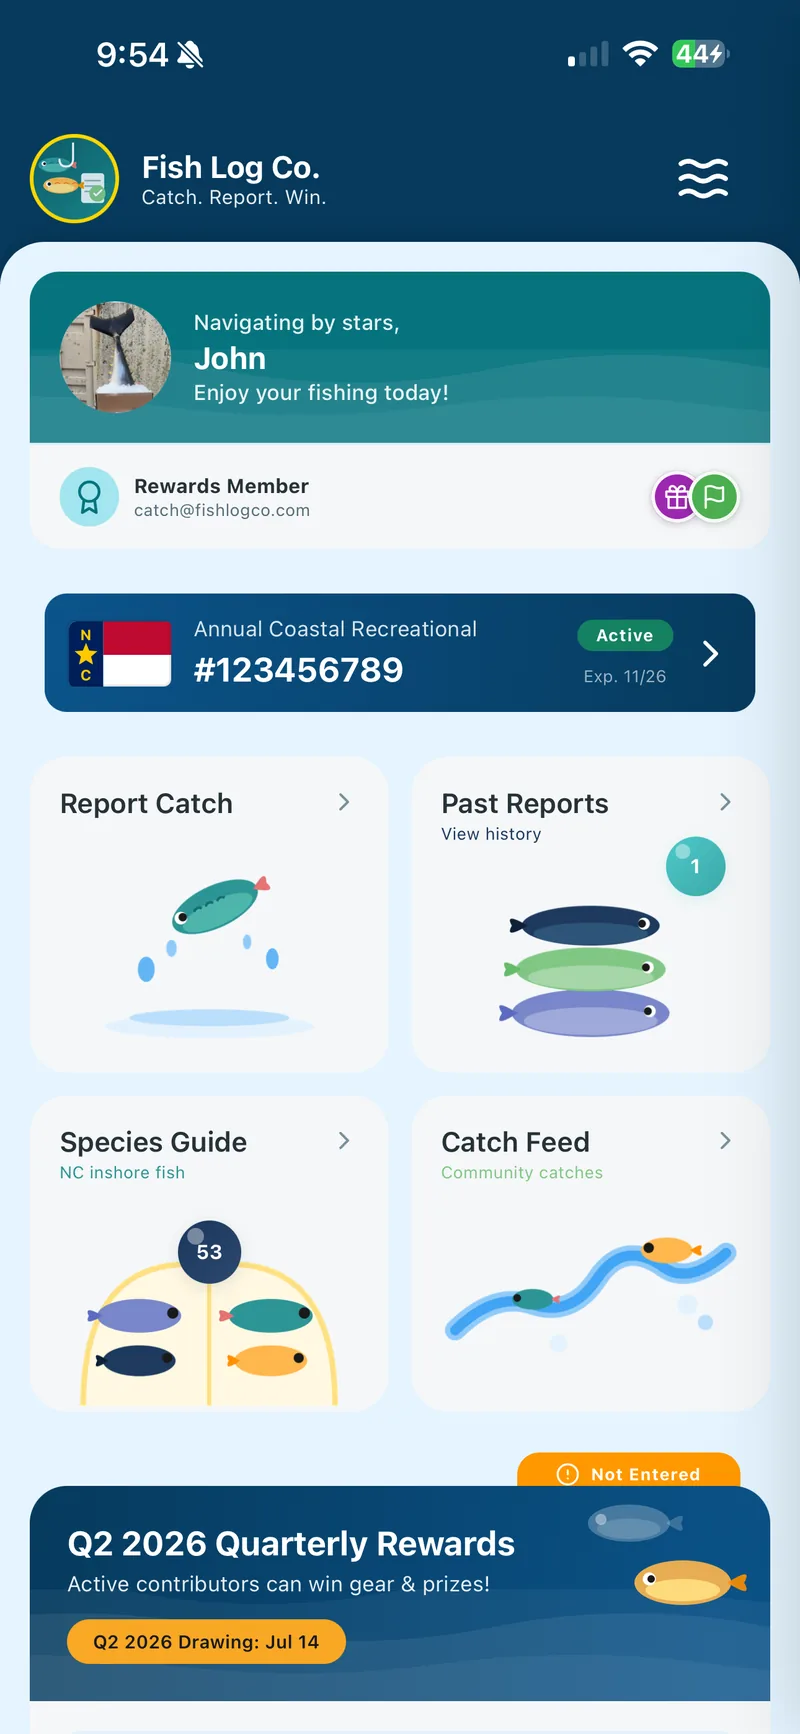
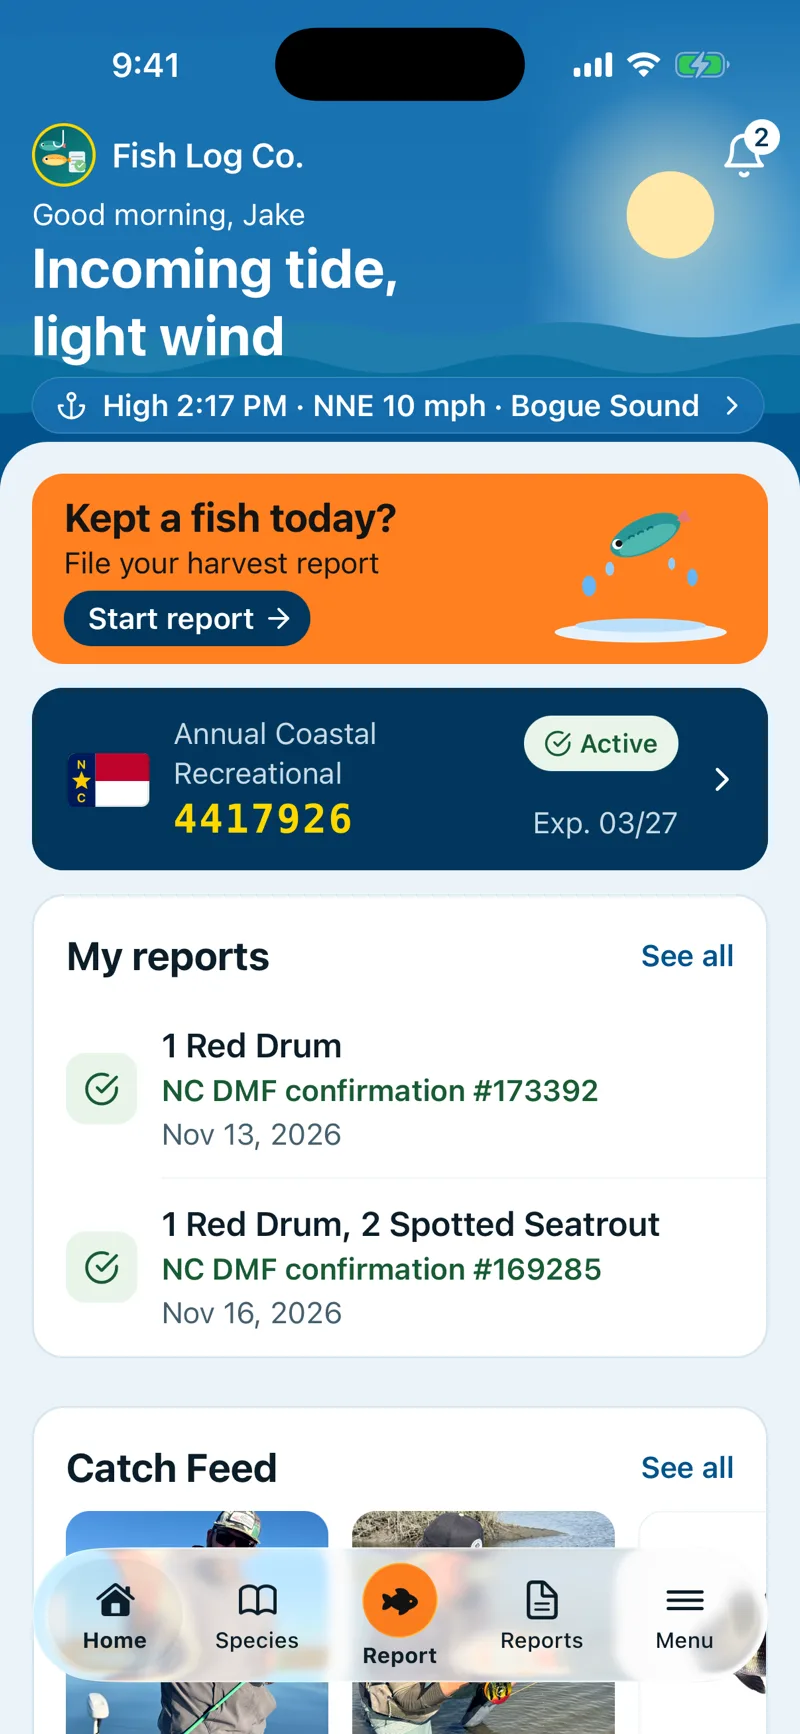
Show the 2.0 app in the homepage screenshots
The hero phone and the three feature tiles still showed the pre-2.0 UI, a
demo "John" profile and the Q2 2026 BoatUS prize. They now show the current
app as a signed-in member: Home with tides, license and reports; the Q4
quarterly drawing (entered); the bulletins list; and the one-screen harvest
report form. Same file names and sizes as before, so no layout changes.
Alt text now describes what each screen shows.

diff --git a/index.html b/index.html
@@ -164,7 +164,7 @@
               <div class="phone-mockup__frame">
                 <img
                   src="images/screen-rewards.webp"
-                  alt="Fish Log Co. quarterly rewards screen"
+                  alt="Fish Log Co. quarterly drawing screen showing an entered angler"
                   width="720"
                   height="1561"
                   decoding="async"
@@ -176,7 +176,7 @@
               <div class="phone-mockup__frame">
                 <img
                   src="images/hero-phone.webp"
-                  alt="Fish Log Co. home screen on iPhone"
+                  alt="Fish Log Co. home screen with tides, wind, license and recent reports"
                   width="800"
                   height="1734"
                   fetchpriority="high"
@@ -248,7 +248,7 @@
             <div class="bento__image">
               <img
                 src="images/screen-bulletin.webp"
-                alt="Fish Log Co. bulletin board screen"
+                alt="Fish Log Co. bulletins screen listing NC DMF advisories"
                 width="720"
                 height="1561"
                 loading="lazy"
@@ -271,7 +271,7 @@
             <div class="bento__image">
               <img
                 src="images/screen-rewards.webp"
-                alt="Fish Log Co. quarterly rewards screen"
+                alt="Fish Log Co. quarterly drawing screen showing an entered angler"
                 width="720"
                 height="1561"
                 loading="lazy"
@@ -293,7 +293,7 @@
             <div class="bento__image">
               <img
                 src="images/screen-harvest.webp"
-                alt="Fish Log Co. mandatory harvest reporting card"
+                alt="Fish Log Co. harvest report form with Red Drum and Spotted Seatrout"
                 width="720"
                 height="1561"
                 loading="lazy"
